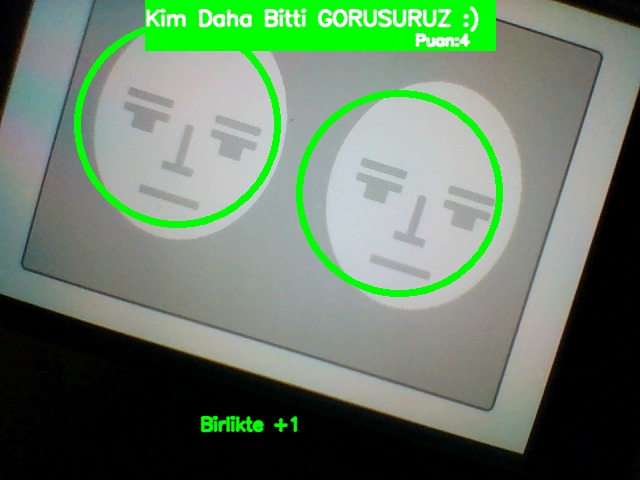
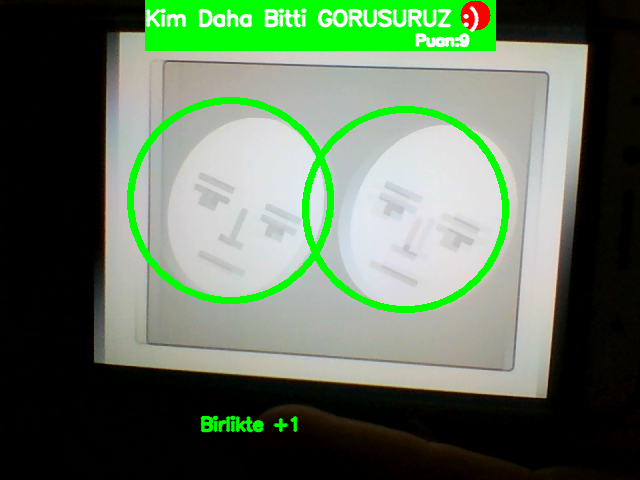
Optimization for player control.
Bugs have been fixed for the control of the players.

diff --git a/main.py b/main.py
@@ -49,6 +49,13 @@ nextQuestionValue=0
 questionCounter=0
 finishBool=False
 questionText="Sorular Hemen Geliyor!"
+
+r1=119
+g1=136
+b1=153
+setPointValue=0
+setpointValue=1
+
 # initialize dlib's face detector and then create |EN
 
 # dlib'in yüz algılayıcısını başlat ve sonra oluştur |TR
@@ -146,8 +153,7 @@ while True:
         for (x, y) in shape:
             cv2.circle(image, (x, y), 2, (0, 255, 0), -1)
         """
-    # 
-    # 
+        
     if((gamers[0]=="sag" and gamers[1]=="sag") or (gamers[0]=="sol" and gamers[1]=="sol")):
         blue=0
         green=255
@@ -192,7 +198,7 @@ while True:
     if(nextQuestionValue==0):
         getQuestionValue=0
     
-    if(questionCounter>=5):
+    if(questionCounter>=10):
         questionText=GetQuestion(True)
     elif(getQuestionValue==1 and nextQuestionValue==1):
         questionText=GetQuestion(False)
@@ -201,8 +207,18 @@ while True:
         gamersPoint=0
         getQuestionValue=0
         nextQuestionValue=0
+        
+    if(nextQuestionValue==1):
+        r1=0
+        g1=255
+        b1=0
+    if(nextQuestionValue==0):
+        r1=255
+        g1=0
+        b1=0
     
     cv2.rectangle(image, (int(width/2)-175,0) , (int(width/2)+175,50), ((blue, green, red)),cv2.FILLED)
+    cv2.circle(image, (int(width/2)+155,15), 15, (b1, g1, r1), -1)
     cv2.putText(image, str(questionText), (int(width/2)-175,25), cv2.FONT_HERSHEY_SIMPLEX, 0.7, (255,255,255), 2, cv2.LINE_AA)
     cv2.putText(image, "Puan:"+str(gamersScore), (int(width/2)+95,45), cv2.FONT_HERSHEY_SIMPLEX, 0.5, (255,255,255), 2, cv2.LINE_AA)
     
